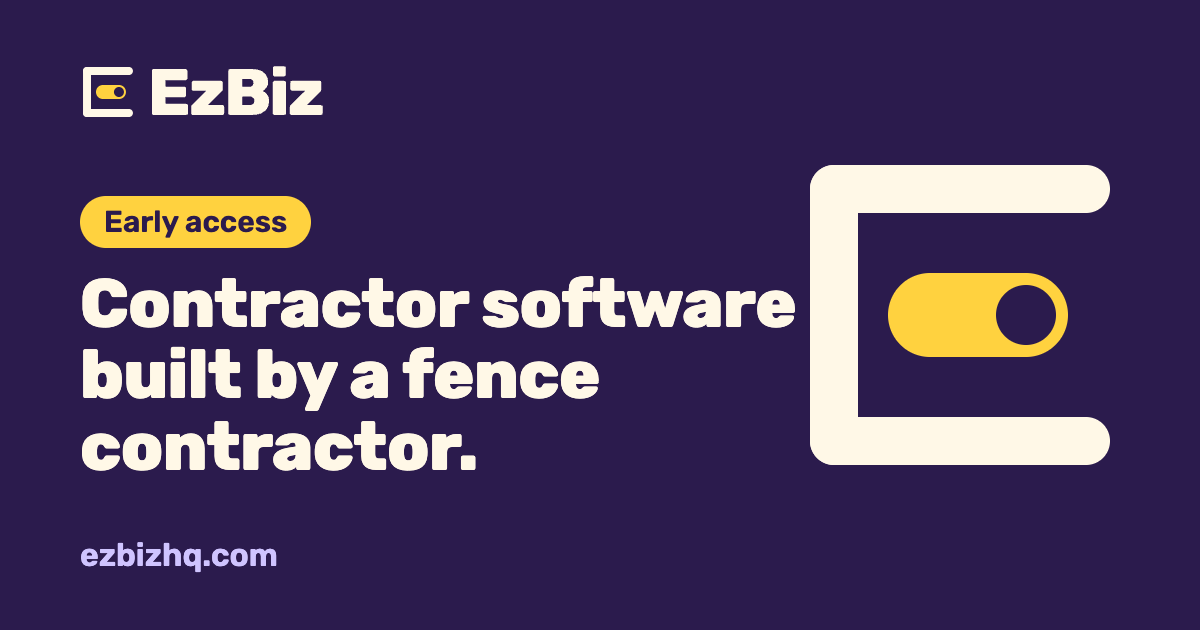
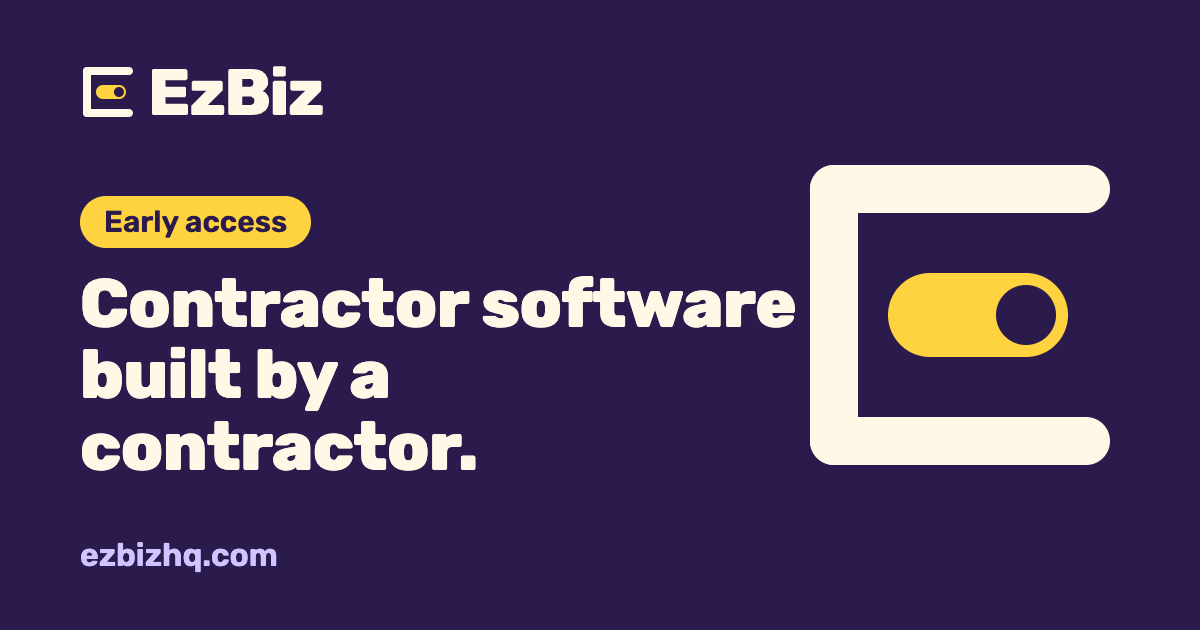
feat(site): trade neutral copy for the early access page
Headline and sub no longer name a trade, the three points match what is
live today, the crew and margin line is gone, and the OG image, meta, OG
and Twitter text follow the new headline. Trade has no default choice.
The brand gate now fails on "fence contractor".

Changed region(s): [[0.3392, 0.5429, 0.5242, 0.6333]]

diff --git a/docs/index.html b/docs/index.html
@@ -3,8 +3,8 @@
 <head>
   <meta charset="utf-8">
   <meta name="viewport" content="width=device-width, initial-scale=1">
-  <title>EzBiz, contractor software built by a fence contractor</title>
-  <meta name="description" content="Quote it, send it, get it signed, get it built, get paid. One app. Early access is opening soon.">
+  <title>EzBiz, contractor software built by a contractor</title>
+  <meta name="description" content="One app from the first call to the final payment. Early access is opening soon.">
   <link rel="canonical" href="https://ezbizhq.com/">
   <meta name="theme-color" content="#2B1B4D">
   <meta name="color-scheme" content="light">
@@ -12,19 +12,19 @@
   <meta property="og:type" content="website">
   <meta property="og:site_name" content="EzBiz">
   <meta property="og:url" content="https://ezbizhq.com/">
-  <meta property="og:title" content="Contractor software built by a fence contractor.">
-  <meta property="og:description" content="Quote it, send it, get it signed, get it built, get paid. One app. Early access is opening soon.">
+  <meta property="og:title" content="Contractor software built by a contractor.">
+  <meta property="og:description" content="One app from the first call to the final payment. Early access is opening soon.">
   <meta property="og:image" content="https://ezbizhq.com/assets/img/og-image.png">
   <meta property="og:image:type" content="image/png">
   <meta property="og:image:width" content="1200">
   <meta property="og:image:height" content="630">
-  <meta property="og:image:alt" content="EzBiz logo with the line Contractor software built by a fence contractor.">
+  <meta property="og:image:alt" content="EzBiz logo with the line Contractor software built by a contractor.">
   <meta property="og:locale" content="en_US">
   <meta name="twitter:card" content="summary_large_image">
-  <meta name="twitter:title" content="Contractor software built by a fence contractor.">
-  <meta name="twitter:description" content="Quote it, send it, get it signed, get it built, get paid. One app. Early access is opening soon.">
+  <meta name="twitter:title" content="Contractor software built by a contractor.">
+  <meta name="twitter:description" content="One app from the first call to the final payment. Early access is opening soon.">
   <meta name="twitter:image" content="https://ezbizhq.com/assets/img/og-image.png">
-  <meta name="twitter:image:alt" content="EzBiz logo with the line Contractor software built by a fence contractor.">
+  <meta name="twitter:image:alt" content="EzBiz logo with the line Contractor software built by a contractor.">
 
   <link rel="icon" href="/favicon.ico" sizes="any">
   <link rel="icon" href="/assets/img/app-icon.svg" type="image/svg+xml">
@@ -50,13 +50,13 @@
   <main class="page">
     <section class="hero" aria-labelledby="headline">
       <p class="badge">Early access</p>
-      <h1 id="headline">Contractor software built by a <span class="hl">fence contractor.</span></h1>
-      <p class="sub">Quote it, send it, get it signed, get it built, get paid. One app. Early access is opening soon.</p>
+      <h1 id="headline">Contractor software built by a <span class="hl">contractor.</span></h1>
+      <p class="sub">One app from the first call to the final payment. Early access is opening soon.</p>
 
       <ul class="points">
         <li>
           <span class="tick" aria-hidden="true"><svg viewBox="0 0 24 24" width="20" height="20"><path d="M5 12.5l4.5 4.5L19 7.5" fill="none" stroke="#2B1B4D" stroke-width="3" stroke-linecap="round" stroke-linejoin="round"/></svg></span>
-          <span>Good, Better, Best options on every quote, priced from what material costs you today.</span>
+          <span>Good, Better, Best on every quote, priced from your own material costs with a margin floor you set.</span>
         </li>
         <li>
           <span class="tick" aria-hidden="true"><svg viewBox="0 0 24 24" width="20" height="20"><path d="M5 12.5l4.5 4.5L19 7.5" fill="none" stroke="#2B1B4D" stroke-width="3" stroke-linecap="round" stroke-linejoin="round"/></svg></span>
@@ -64,7 +64,7 @@
         </li>
         <li>
           <span class="tick" aria-hidden="true"><svg viewBox="0 0 24 24" width="20" height="20"><path d="M5 12.5l4.5 4.5L19 7.5" fill="none" stroke="#2B1B4D" stroke-width="3" stroke-linecap="round" stroke-linejoin="round"/></svg></span>
-          <span>Your salesman sees the price. Your crew sees the pull sheet. Nobody sees your margins but you.</span>
+          <span>Jobs move themselves once locates and permits clear.</span>
         </li>
       </ul>
     </section>
@@ -93,7 +93,8 @@
           <div class="field">
             <label for="trade">Trade</label>
             <select id="trade" name="trade">
-              <option value="Fence" selected>Fence</option>
+              <option value="" selected>Choose one</option>
+              <option value="Fence">Fence</option>
               <option value="Decking">Decking</option>
               <option value="Pavers and hardscape">Pavers and hardscape</option>
               <option value="Screen enclosures">Screen enclosures</option>
